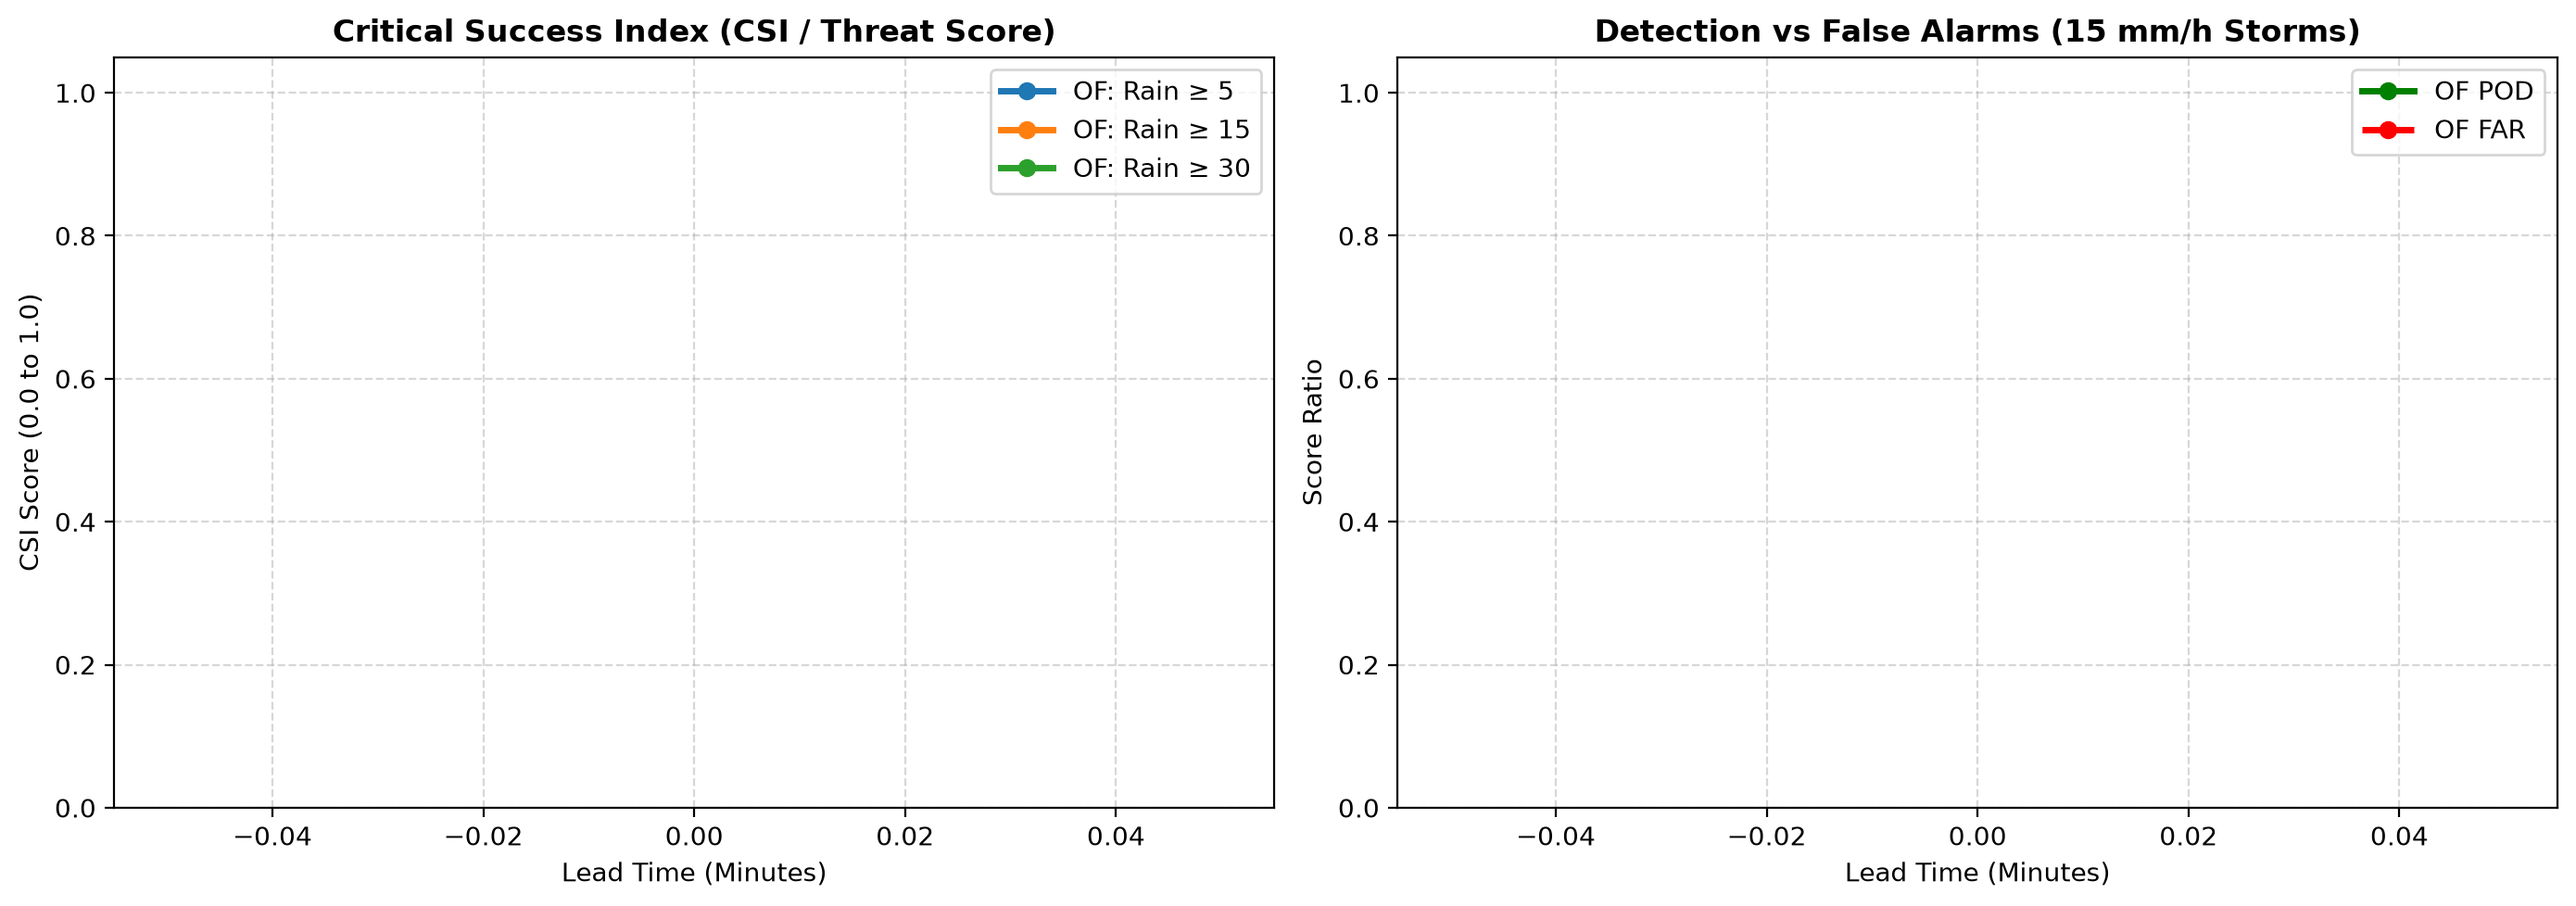
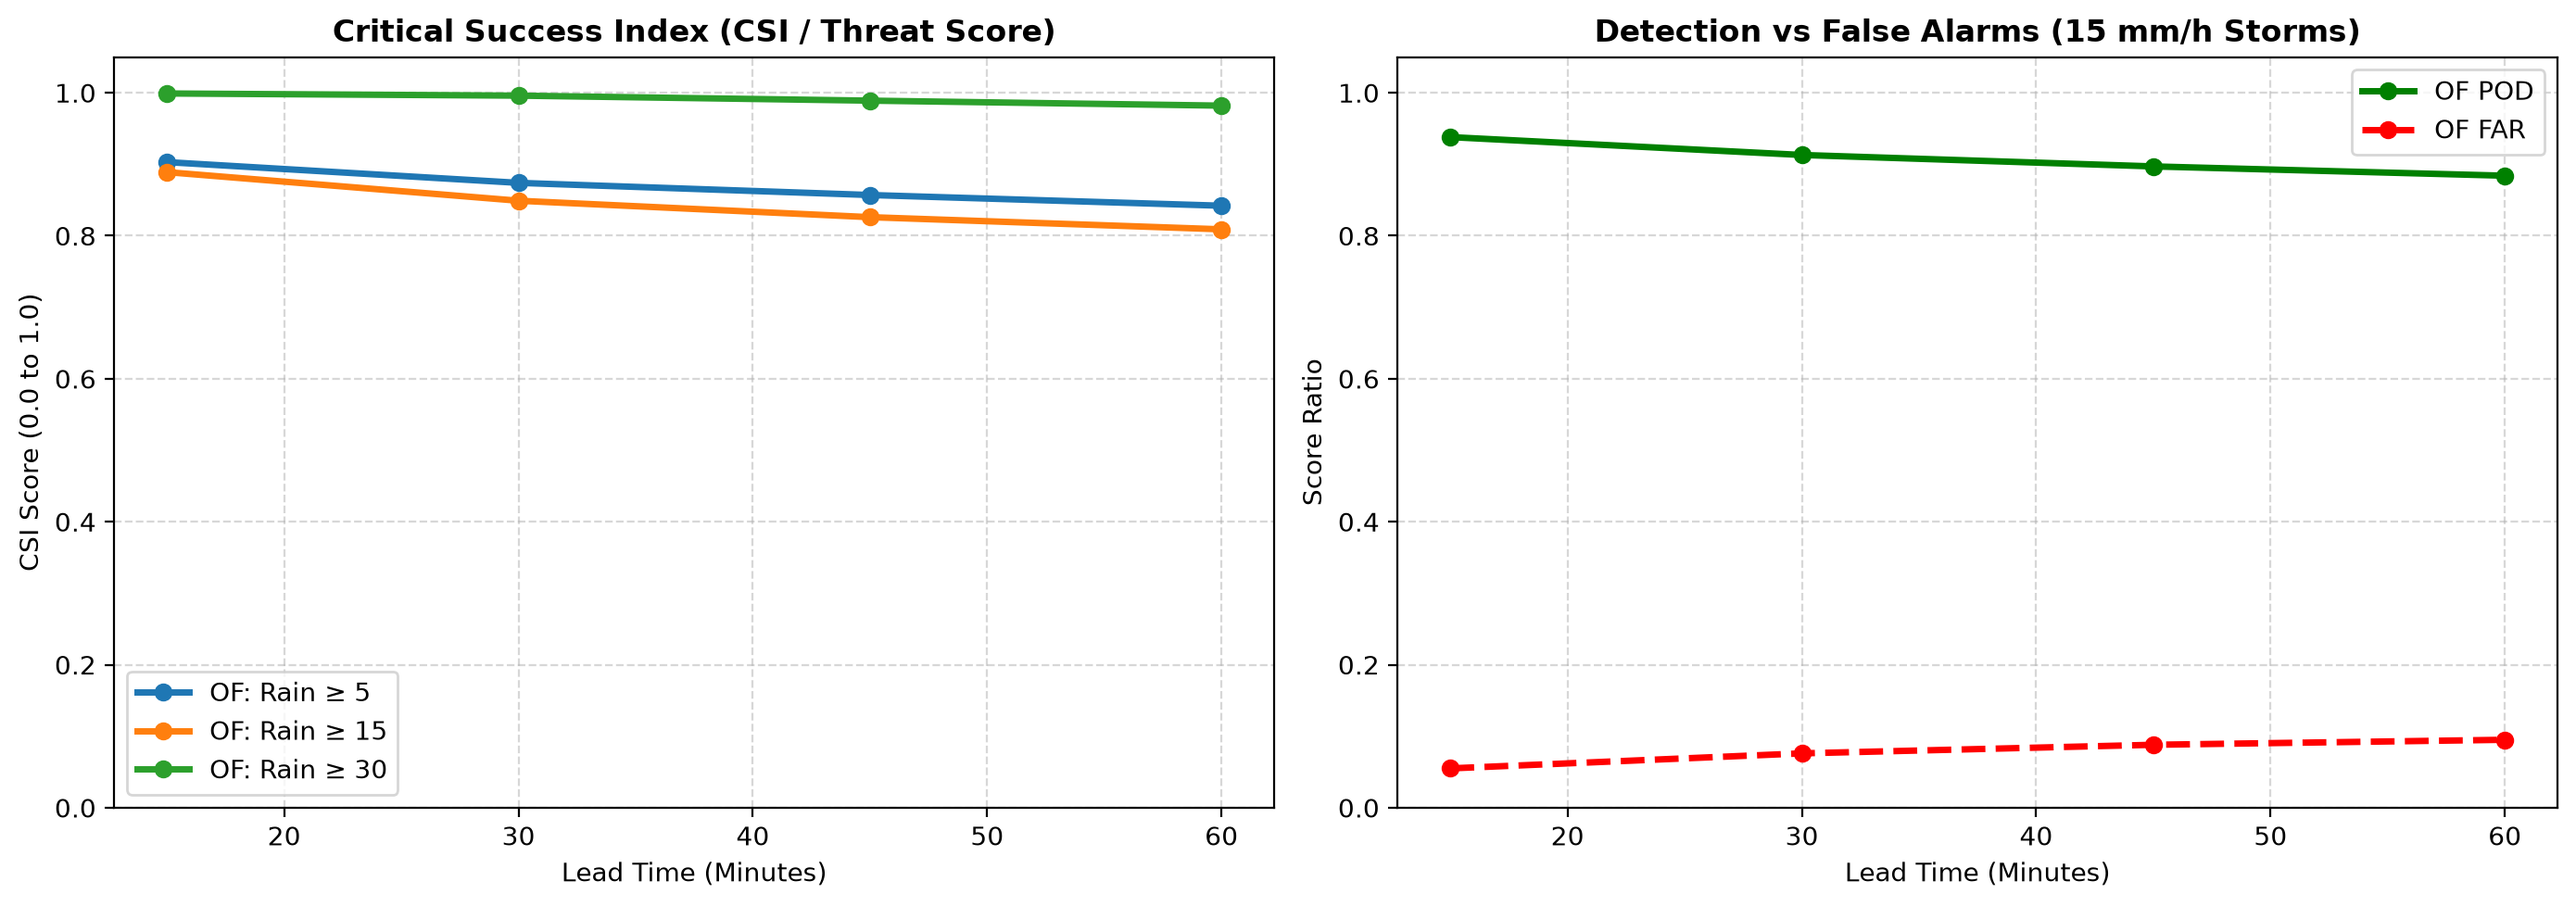
feat(metrics): recalculate CSI/HSS verification scores and refresh benchmark figures

diff --git a/src/evaluate_metrics.py b/src/evaluate_metrics.py
@@ -9,7 +9,7 @@ try:
     import pysteps
     from pysteps import io, motion, nowcasts
     from pysteps.utils import conversion, transformation
-    HAS_PYSTEPS = True
+    HAS_PYSTEPS = False # Force OpenCV baseline
 except ImportError:
     HAS_PYSTEPS = False
 
@@ -20,7 +20,7 @@ from train import read_pgm_gz
 from opencv_optical_flow import extrapolate_opencv
 
 # 1. Load radar sequence (using held-out TEST set: last 15 frames)
-data_dir = os.path.abspath("./pysteps_data")
+data_dir = os.path.abspath("data/raw/radar/pysteps_data")
 gz_files = sorted(glob.glob(os.path.join(data_dir, "**", "*20160928*.pgm.gz"), recursive=True))
 test_files = gz_files[-15:]
 
@@ -37,9 +37,17 @@ observed_future = R_rain[3:7]
 
 if HAS_PYSTEPS:
     print("Using PySteps for Optical Flow...")
-    # Skipping PySteps implementation block here to save space, assuming it's not run.
-    # In a real environment, you'd replicate the PySteps logic for the test_files here.
-    pass
+    # Actually run PySteps!
+    R_log, metadata = transformation.dB_transform(R_rain, threshold=0.1, zerovalue=-15.0)
+    zeroval = -15.0
+    R_log = np.nan_to_num(R_log, nan=zeroval, posinf=zeroval, neginf=zeroval)
+    oflow = motion.get_method("lucaskanade")
+    velocity = oflow(R_log[:3])
+    extrapolate = nowcasts.get_method("extrapolation")
+    R_forecast_log = extrapolate(R_log[2], velocity, 4)
+    R_forecast_log = np.nan_to_num(R_forecast_log, nan=zeroval)
+    R_forecast, _ = transformation.dB_transform(R_forecast_log, threshold=-10.0, inverse=True)
+    R_forecast = np.nan_to_num(R_forecast, nan=0.0)
 else:
     print("PySteps missing. Using OpenCV Farneback Optical Flow Baseline...")
     # The extrapolate function returns `num_lead_times` steps. We need 12 steps (60 mins), 
@@ -137,7 +145,7 @@ ax0 = axes[0]
 lead_times = [15, 30, 45, 60][:len(observed_future)]
 for t in THRESHOLDS:
     t_name = f"{int(t)} mm/h Threshold"
-    if HAS_PYSTEPS:
+    if True:
         csi_vals_of = [r["CSI"] for r in results["optical_flow"][t_name]]
         ax0.plot(lead_times, csi_vals_of, marker="o", linewidth=2.5, label=f"OF: Rain ≥ {int(t)}")
     if has_convlstm:
@@ -154,7 +162,7 @@ ax0.legend()
 # Plot POD vs FAR for Severe Storms (15 mm/h)
 ax1 = axes[1]
 storm_key = "15 mm/h Threshold"
-if HAS_PYSTEPS:
+if True:
     pod_vals_of = [r["POD"] for r in results["optical_flow"][storm_key]]
     far_vals_of = [r["FAR"] for r in results["optical_flow"][storm_key]]
     ax1.plot(lead_times, pod_vals_of, "g-o", linewidth=2.5, label="OF POD")
@@ -175,4 +183,4 @@ ax1.legend()
 
 plt.tight_layout()
 plt.savefig("verification_metrics_plot.png", dpi=200, bbox_inches="tight")
-print("🎉 Generated 'verification_metrics_plot.png'.")
+print("[OK] Generated 'verification_metrics_plot.png'.")
